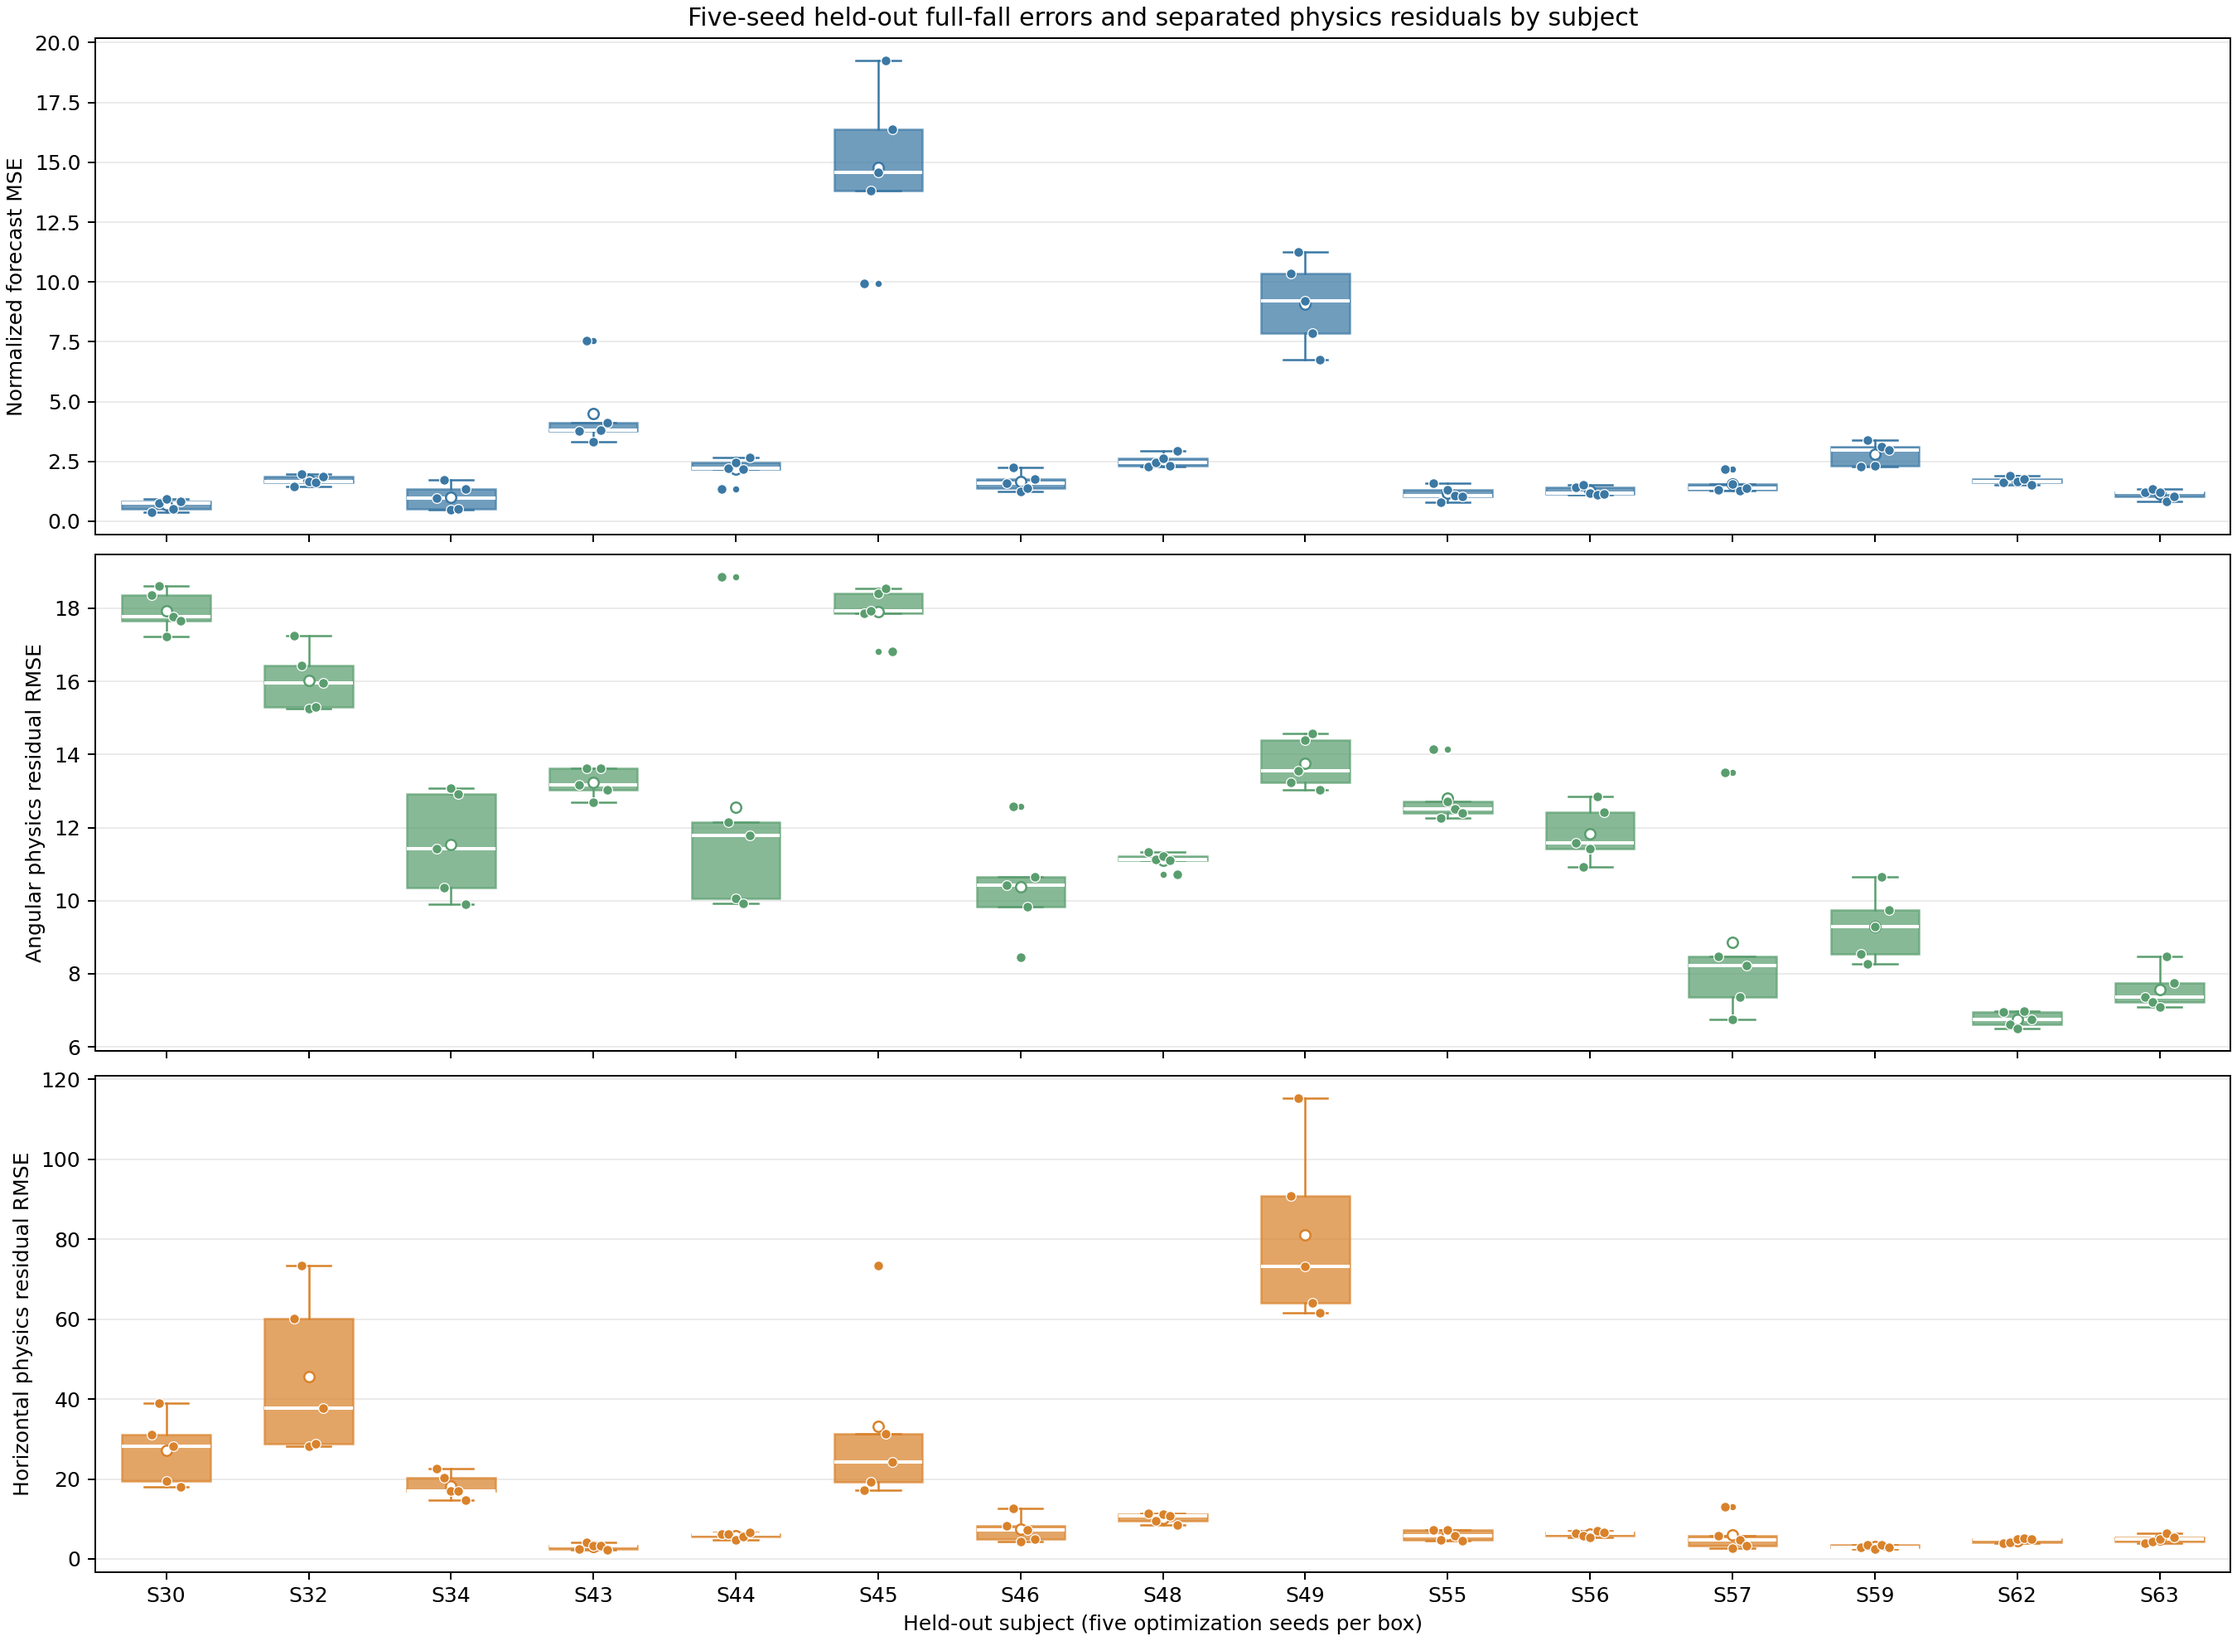
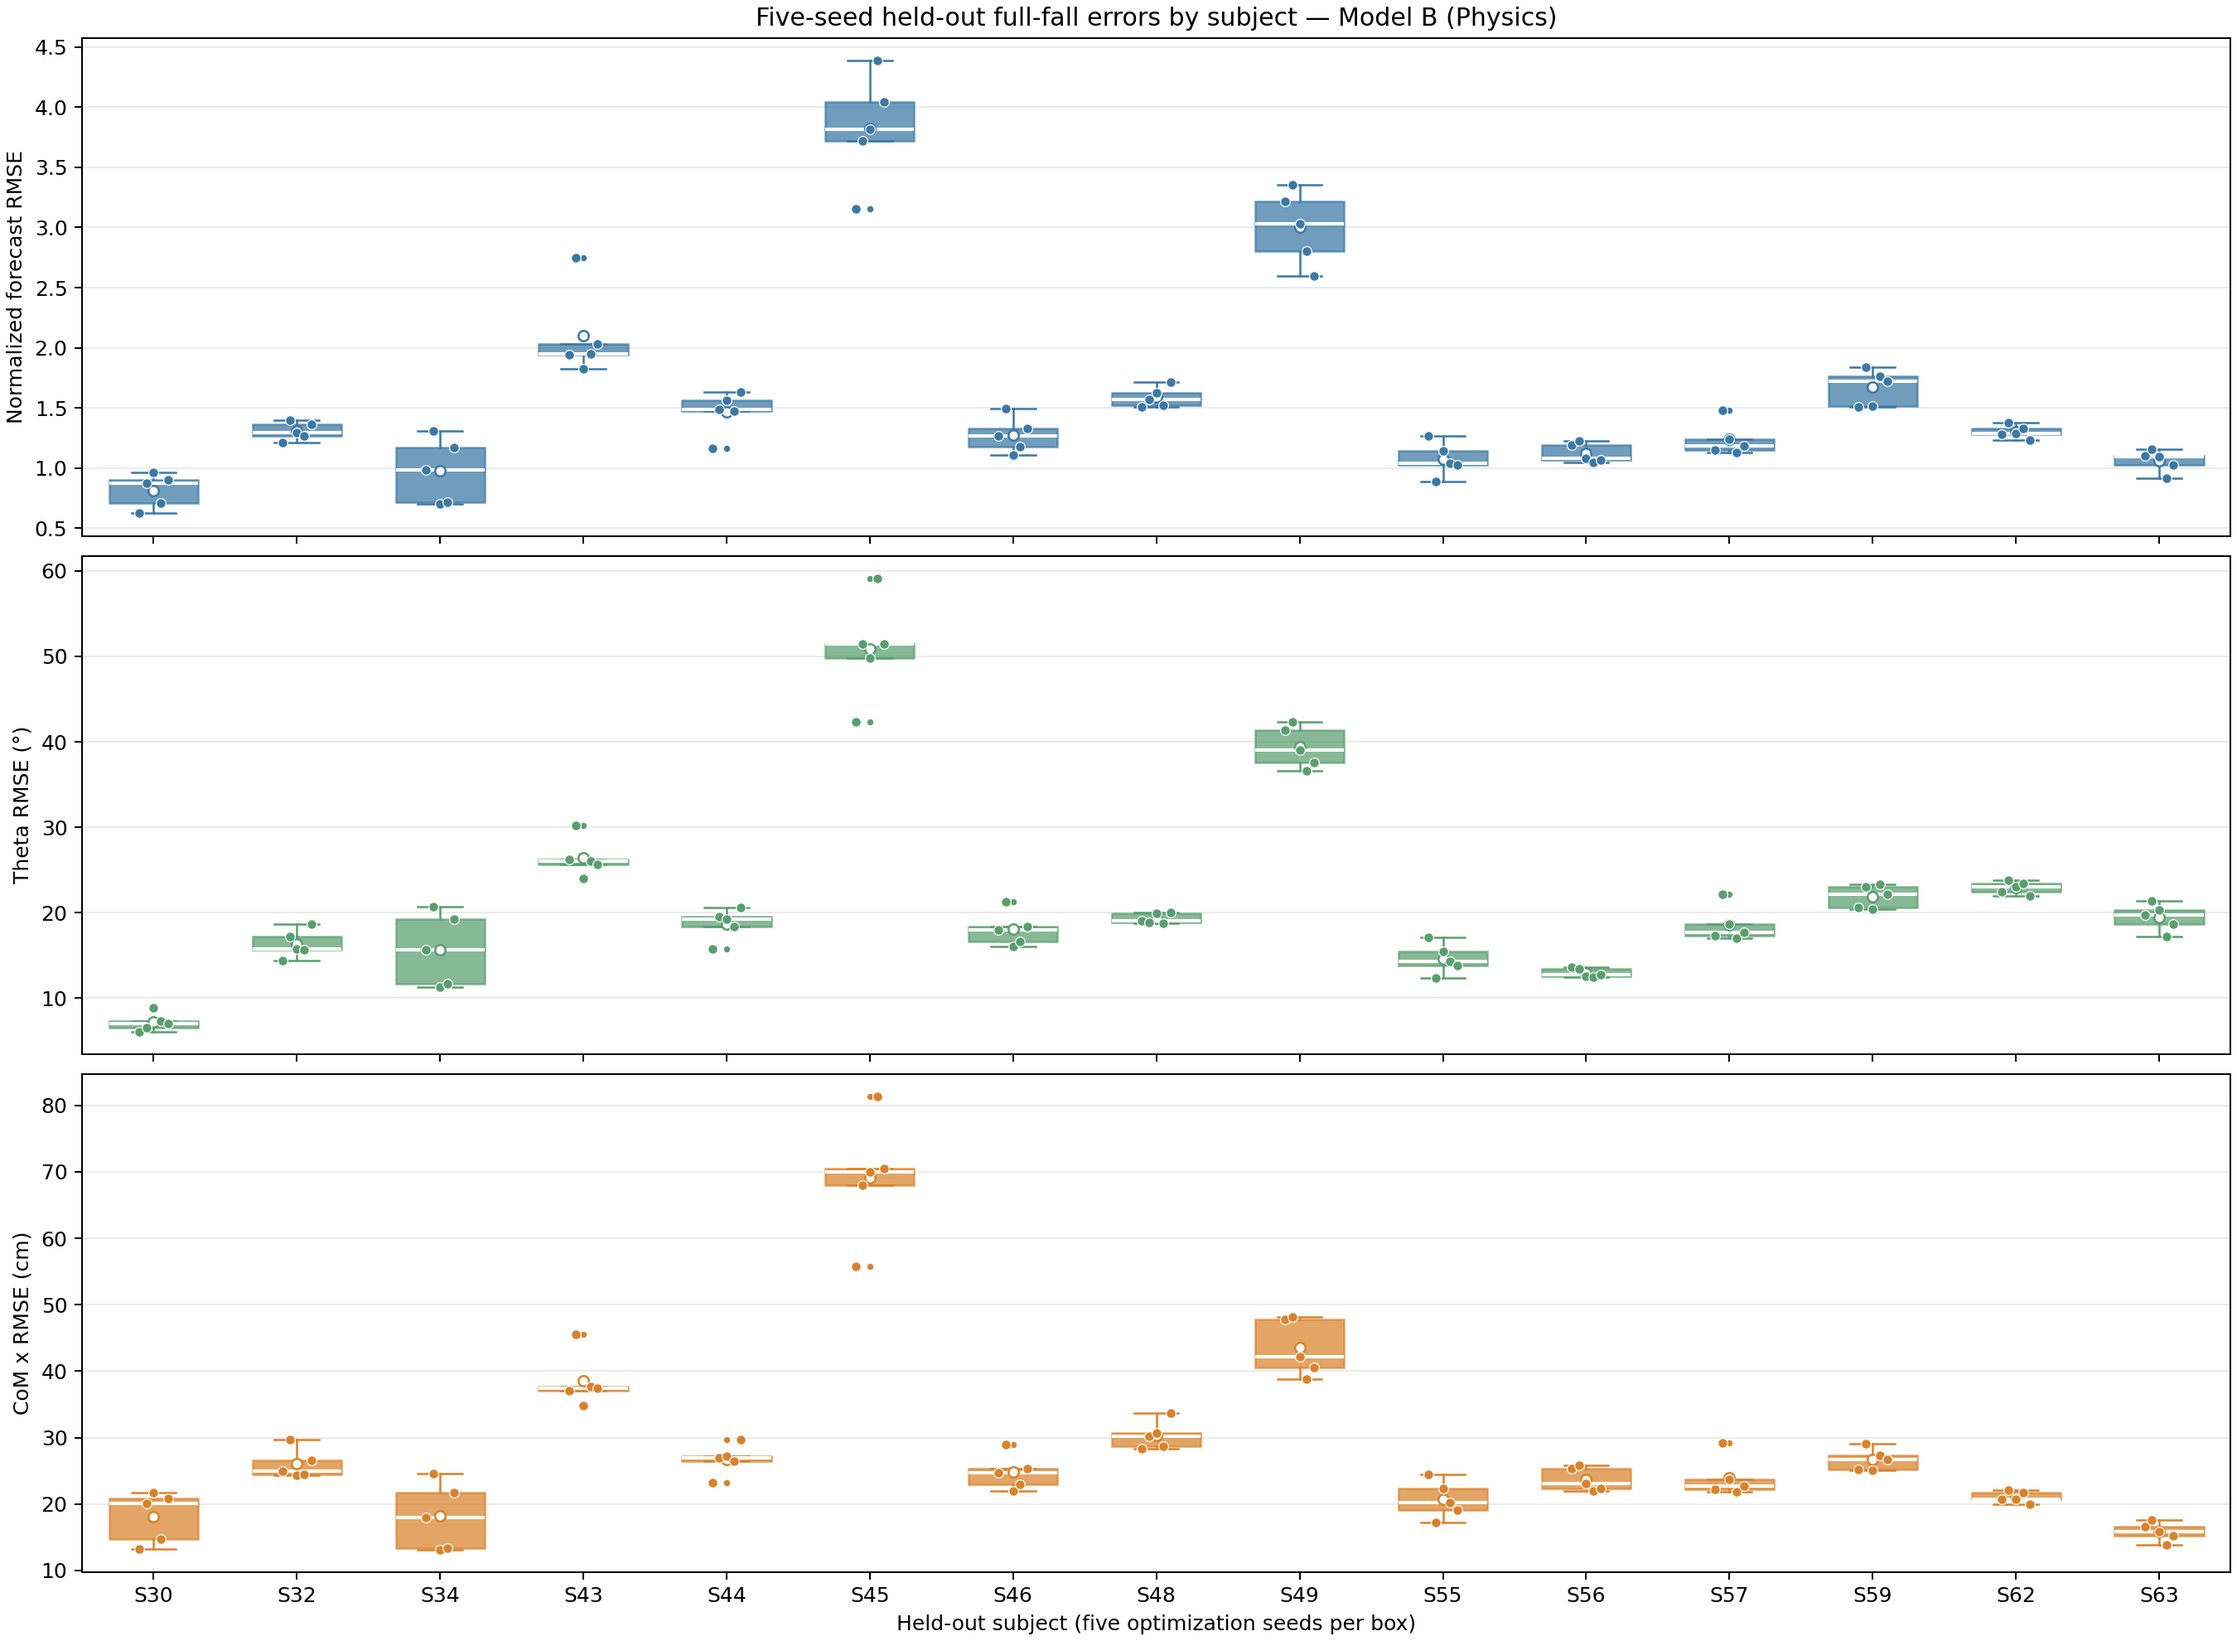
findings

diff --git a/Fifteen_Subject_DeepONet_ModelB_Direct_Unified_Physics_Full_Fall_5_Seeds/plot_full_fall_findings.py b/Fifteen_Subject_DeepONet_ModelB_Direct_Unified_Physics_Full_Fall_5_Seeds/plot_full_fall_findings.py
@@ -1,5 +1,5 @@
 #!/usr/bin/env python3
-"""Create subject-level full-fall trajectory/residual summary artifacts."""
+"""Create subject-level full-fall primary-error summary artifacts."""
 
 from pathlib import Path
 
@@ -12,10 +12,13 @@ ROOT = Path(__file__).resolve().parent
 RESULTS = ROOT / "results" / "full"
 INPUT = RESULTS / "multi_seed_subject_metrics.csv"
 OUTPUT_CSV = RESULTS / "five_seed_subject_mean_summary.csv"
+# Keep the original filename for compatibility with the completed results ZIP.
 OUTPUT_FIGURE = RESULTS / "full_fall_physics_residuals_by_subject.png"
+OUTPUT_PRIMARY_FIGURE = RESULTS / "full_fall_primary_errors_by_subject.png"
 
 METRICS = [
     "normalized_mse",
+    "normalized_rmse",
     "theta_rmse_deg",
     "x_rmse_cm",
     "angular_residual_rmse",
@@ -25,6 +28,9 @@ METRICS = [
 
 def main() -> None:
     frame = pd.read_csv(INPUT)
+    # Each plotted point is one held-out subject under one optimization seed.
+    # Convert that point's normalized MSE to normalized RMSE before grouping.
+    frame["normalized_rmse"] = np.sqrt(frame["normalized_mse"].clip(lower=0.0))
     subjects = sorted(frame["test_subject"].unique(), key=lambda value: int(value[1:]))
     grouped = frame.groupby("test_subject", sort=False)
 
@@ -34,11 +40,11 @@ def main() -> None:
     summary.insert(1, "seed_count", grouped.size().reindex(subjects).to_numpy())
     summary.to_csv(OUTPUT_CSV, index=False)
 
-    colors = {"trajectory": "#3B78A4", "angular": "#5A9E6F", "horizontal": "#D9822B"}
+    colors = {"normalized": "#3B78A4", "theta": "#5A9E6F", "x": "#D9822B"}
     panels = [
-        ("normalized_mse", "Normalized forecast MSE", colors["trajectory"]),
-        ("angular_residual_rmse", "Angular physics residual RMSE", colors["angular"]),
-        ("horizontal_residual_rmse", "Horizontal physics residual RMSE", colors["horizontal"]),
+        ("normalized_rmse", "Normalized forecast RMSE", colors["normalized"]),
+        ("theta_rmse_deg", "Theta RMSE (°)", colors["theta"]),
+        ("x_rmse_cm", "CoM x RMSE (cm)", colors["x"]),
     ]
 
     fig, axes = plt.subplots(3, 1, figsize=(15, 11), sharex=True, constrained_layout=True)
@@ -67,10 +73,11 @@ def main() -> None:
         axis.set_ylabel(ylabel)
         axis.grid(axis="y", alpha=0.25)
 
-    axes[0].set_title("Five-seed held-out full-fall errors and separated physics residuals by subject")
+    axes[0].set_title("Five-seed held-out full-fall errors by subject — Model B (Physics)")
     axes[-1].set_xticks(x, subjects)
     axes[-1].set_xlabel("Held-out subject (five optimization seeds per box)")
     fig.savefig(OUTPUT_FIGURE, dpi=180)
+    fig.savefig(OUTPUT_PRIMARY_FIGURE, dpi=180)
     plt.close(fig)
 
 

diff --git a/Fifteen_Subject_DeepONet_ModelB_Direct_Unified_Physics_Full_Fall_5_Seeds/README.md b/Fifteen_Subject_DeepONet_ModelB_Direct_Unified_Physics_Full_Fall_5_Seeds/README.md
@@ -309,6 +309,11 @@ seed means.
 | Angle MAE | 17.152° | 0.792° | 16.169–18.136° |
 | CoM displacement MAE | 22.978 cm | 1.279 cm | 21.389–24.566 cm |
 
+For the advisor-facing subject boxplot, normalized forecast RMSE is calculated
+for each subject-seed point as `sqrt(normalized_mse)`. Theta RMSE remains in
+degrees and CoM x RMSE remains in centimetres; these are trajectory errors, not
+physics-equation residuals.
+
 Seed 1 has the lowest mean normalized MSE (2.7734), while Seed 2 has the
 highest (3.6769). This optimization variation is modest compared with subject
 variation. S45 is the hardest held-out subject (mean normalized MSE 14.7969,
@@ -323,10 +328,13 @@ units/scales are not directly comparable to normalized MSE, degrees, or
 centimetres. S49 has an especially large horizontal-residual RMSE (80.95),
 which is concentrated in the difficult short T04 fall.
 
-See `FINDINGS.md` for the subject/trial analysis and interpretation. The new
-`results/full/full_fall_physics_residuals_by_subject.png` keeps angular and
-horizontal residuals separate, as required for diagnosing which equation is
-violated and when.
+See `FINDINGS.md` for the subject/trial analysis and interpretation.
+`results/full/full_fall_physics_residuals_by_subject.png` now shows normalized
+forecast RMSE, theta RMSE (degrees), and CoM x RMSE (centimetres) as five-seed
+boxplots by subject. The clearer alias
+`results/full/full_fall_primary_errors_by_subject.png` contains the same plot.
+Angular and horizontal residuals remain available in the CSV and per-trial NPZ
+outputs for equation-specific diagnostics.
 
 ## Interpretation limits
 

diff --git a/Fifteen_Subject_DeepONet_ModelB_Direct_Unified_Physics_Full_Fall_5_Seeds/FINDINGS.md b/Fifteen_Subject_DeepONet_ModelB_Direct_Unified_Physics_Full_Fall_5_Seeds/FINDINGS.md
@@ -22,6 +22,13 @@ The five-seed held-out result is:
 | Angle Wasserstein-1 | 16.562° | 0.703° | — |
 | CoM displacement Wasserstein-1 | 22.126 cm | 1.132 cm | — |
 
+The advisor-facing subject figure uses three directly interpretable trajectory
+errors: normalized forecast RMSE, theta RMSE in degrees, and CoM x RMSE in
+centimetres. Each normalized-RMSE point is computed as the square root of that
+subject-seed's normalized MSE before constructing the five-seed boxplot. The
+angular and horizontal equation residuals are intentionally excluded from this
+comparison figure and remain reported separately below.
+
 These are subject-balanced statistics: trials are averaged within each held-out
 subject, the 15 subjects are averaged equally within a seed, and only then are
 the five seed means summarized. The 75 subject-seed rows are repeated
